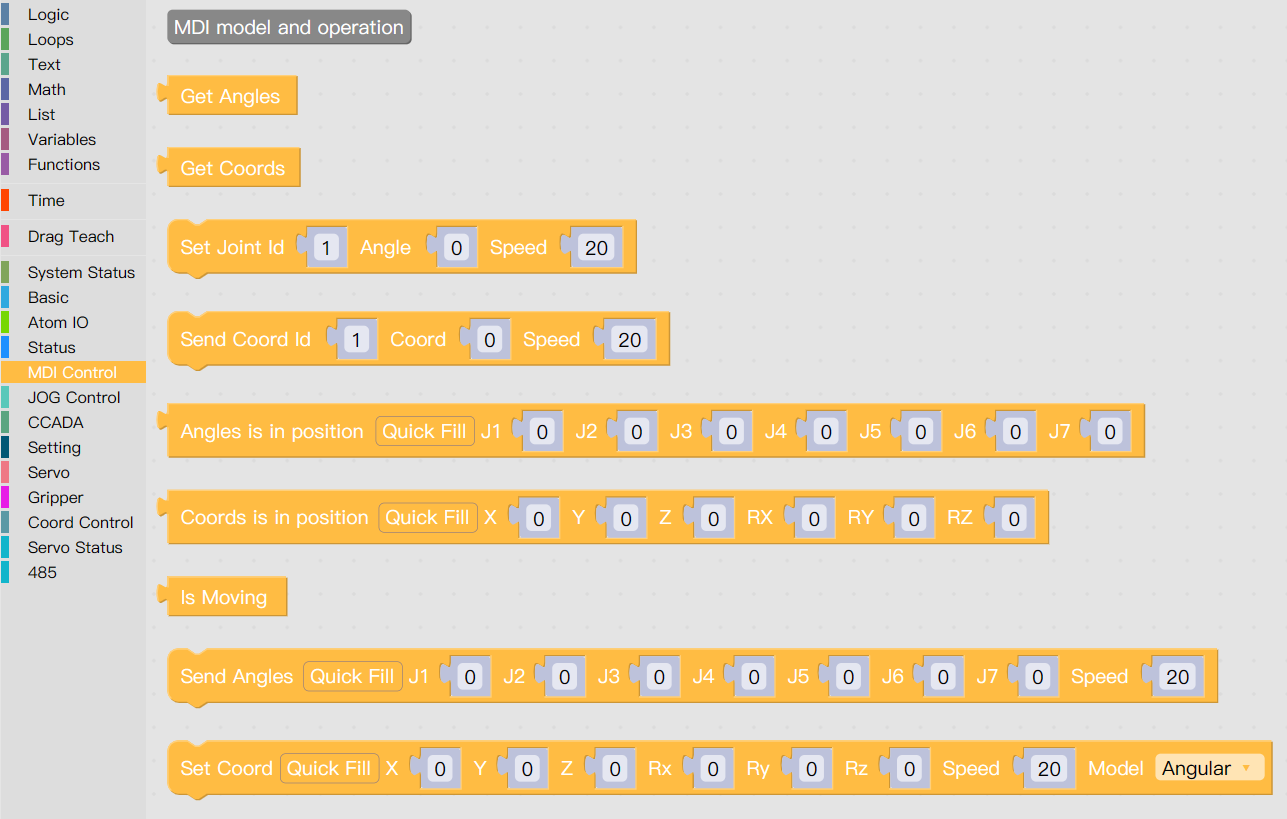
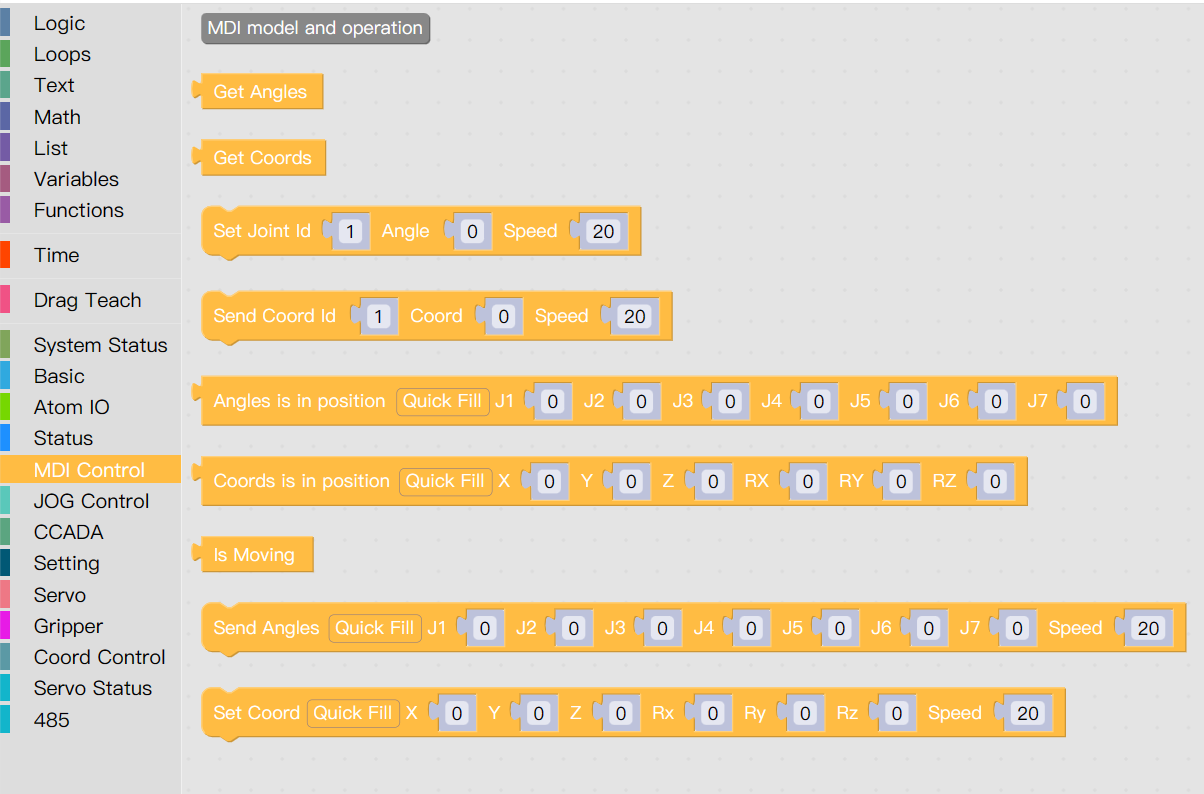
update send_coords api

diff --git a/5-BasicApplication/5.2-ApplicationUse/5.2.1-myStudio/1-myblockly/10-api.md b/5-BasicApplication/5.2-ApplicationUse/5.2.1-myStudio/1-myblockly/10-api.md
@@ -366,14 +366,13 @@
 
 **Set Coord**
 
-- **Prototype**：`send_coords（coords,speed,mode）`
+- **Prototype**：`send_coords（coords,speed）`
 
 - **Interface Description**：set coords
 
 - **Params**
 - `coords`：coord（`List[float]`）
    - `speed`: (`int`) 0 ~ 100
-   - `mode`: (`int`): `0` - angle（default），`1` - liner
 
 
 
